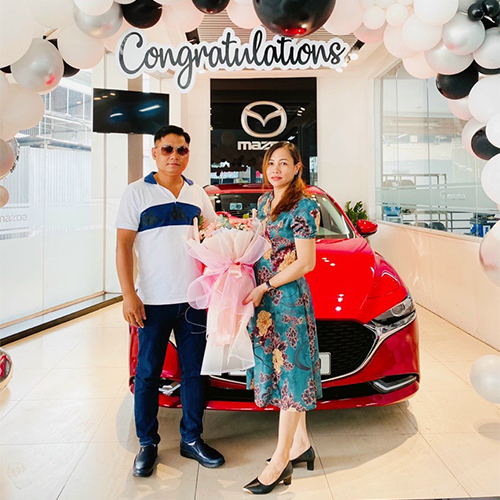
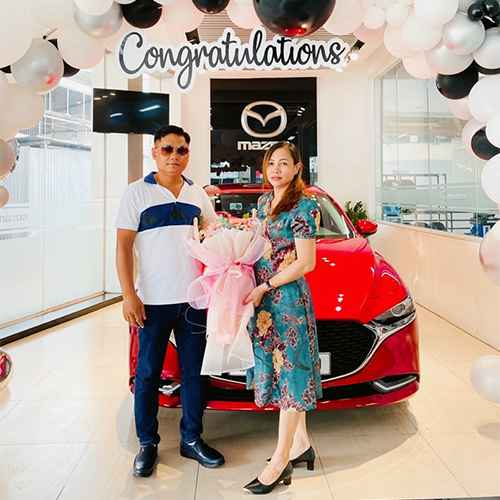
Reduce size of images

diff --git a/components/home/PostsSection.tsx b/components/home/PostsSection.tsx
@@ -24,38 +24,36 @@ const PostsSection: FC<Props> = (props): JSX.Element => {
     <section className="py-10 container">
       <SectionTitle title="Tin Tức & Sự Kiện" />
 
-      <ReactQueryProvider>
-        <div className="mt-10">
-          <Swiper
-            breakpoints={{
-              0: {
-                slidesPerView: 1,
-              },
-              617: {
-                slidesPerView: 2,
-              },
-              944: {
-                slidesPerView: 3,
-              },
-            }}
-            loop={true}
-            spaceBetween={30}
-            navigation={true}
-            modules={[Navigation, Autoplay]}
-            autoplay={{
-              delay: 3500,
-              disableOnInteraction: false,
-            }}
-            className="homeSwiper !aspect-auto"
-          >
-            {(data as any)?.result.map((article: any, index: number) => (
-              <SwiperSlide key={index}>
-                <ArticleCard article={article} />
-              </SwiperSlide>
-            ))}
-          </Swiper>
-        </div>
-      </ReactQueryProvider>
+      <div className="mt-10">
+        <Swiper
+          breakpoints={{
+            0: {
+              slidesPerView: 1,
+            },
+            617: {
+              slidesPerView: 2,
+            },
+            944: {
+              slidesPerView: 3,
+            },
+          }}
+          loop={true}
+          spaceBetween={30}
+          navigation={true}
+          modules={[Navigation, Autoplay]}
+          autoplay={{
+            delay: 3500,
+            disableOnInteraction: false,
+          }}
+          className="homeSwiper !aspect-auto"
+        >
+          {(data as any)?.result.map((article: any, index: number) => (
+            <SwiperSlide key={index}>
+              <ArticleCard article={article} />
+            </SwiperSlide>
+          ))}
+        </Swiper>
+      </div>
     </section>
   );
 };

diff --git a/data/index.ts b/data/index.ts
@@ -235,7 +235,7 @@ export const promotionItems: promotionItemType[] = [
     title: "ƯU ĐÃI ĐẾN 100% PHÍ TRƯỚC BẠ",
     subtitle:
       "Mazda Thủ Đức triển khai chương trình đặc biệt với gói hỗ trợ tương đương 100% lệ phí trước bạ cho khách hàng mua Mazda2, Mazda3, Mazda CX-5 cùng nhiều ưu đãi lớn dành cho các phiên bản Mazda khác.",
-    desc: "Mức hỗ trợ cao nhất của Mazda sẽ nằm ở các mẫu SUV cao cấp như <b>Mazda CX-8</b>, <b>Mazda CX-5</b> và <b>Mazda 6</b>. Theo đó, mẫu xe 5 chỗ thực thụ đến từ thương hiệu Nhật Bản, Mazda 6 được hỗ trợ cao nhất đến <b class='text-primary'>110 triệu đồng</b> cho bản <b>Signature</b>. Mức giá <b>Mazda 6</b> sau khi giảm chỉ còn <b class='text-primary'>849 triệu đồng</b>, cùng ưu đãi vay mua xe hấp dẫn, khách hàng chỉ cần trả trước từ <b>200 triệu đồng.</b>",
+    desc: "Mức hỗ trợ cao nhất của Mazda sẽ nằm ở các mẫu SUV cao cấp như <b>Mazda CX-8</b>, <b>Mazda CX-5</b> và <b>Mazda 6</b>. Theo đó, mẫu xe 5 chỗ thực thụ đến từ thương hiệu Nhật Bản, Mazda 6 được hỗ trợ cao nhất đến <b class='text-primary'>110 triệu đồng</b> cho bản <b>Signature</b>. Mức giá <b>Mazda 6</b> sau khi giảm chỉ còn <b class='text-primary'>769 triệu đồng</b>, cùng ưu đãi vay mua xe hấp dẫn, khách hàng chỉ cần trả trước từ <b>200 triệu đồng.</b>",
   },
   {
     icon: FaUsersCog,
